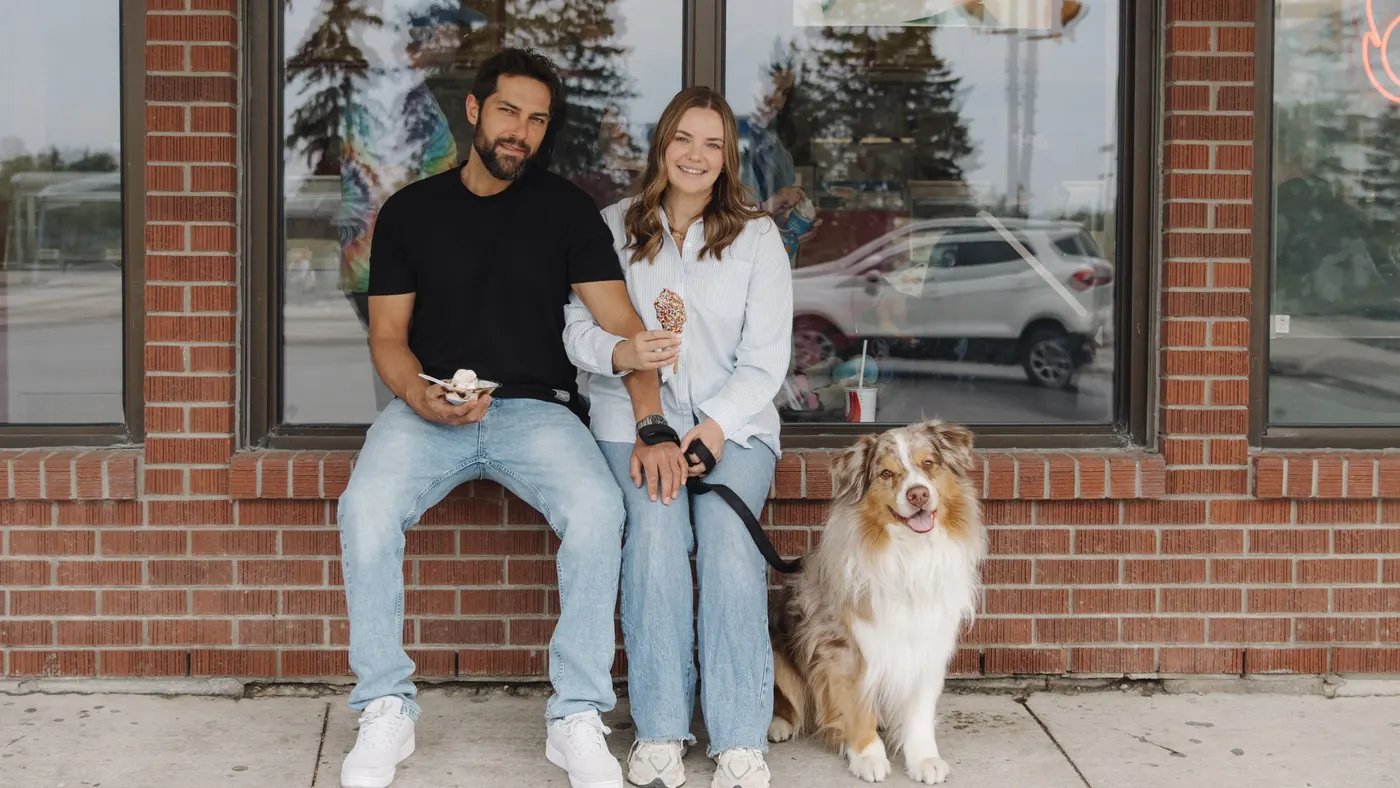
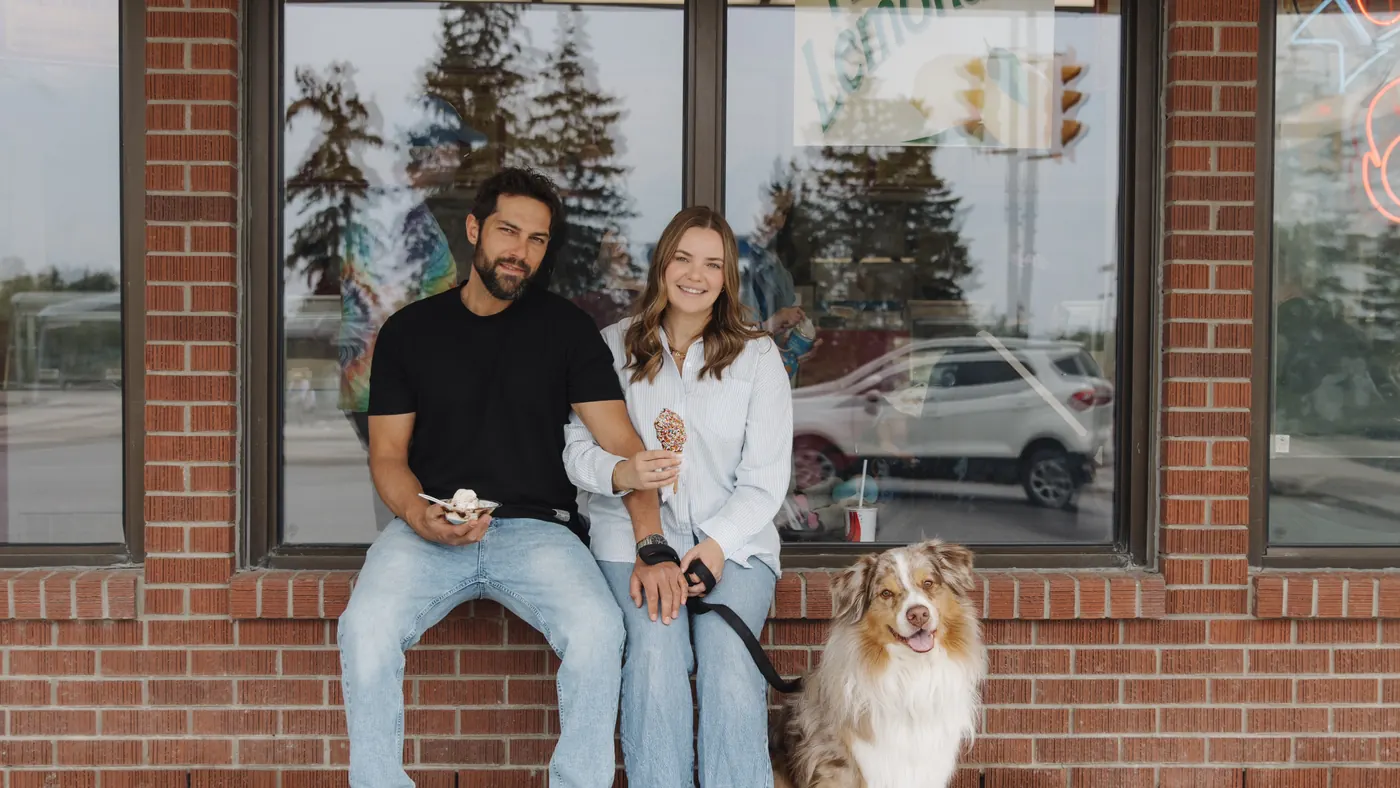
Westwood preview: smaller headshots, fixed crops, no edge lines, clearer hero text
Team and home headshots capped at sizes the photos hold sharply (300px /
440px); closing Paige + Mike photo uses a native-resolution landscape crop;
About and Services banners swapped to photos whose subject doesn't sit
behind the title; thin rules down the page edges removed; banner text is
brighter, larger and sits on a deeper veil.

diff --git a/the-vault/westwood/assets/css/site.css b/the-vault/westwood/assets/css/site.css
@@ -24,7 +24,6 @@
   --on-dark-soft:#D9CDBD;
   --rule:rgba(46,33,25,.18);
   --rule-dark:rgba(244,238,228,.2);
-  --edge:rgba(194,158,114,.42);   /* the thin rules down both page edges */
 
   --display:"Marcellus", "Trajan Pro", Georgia, serif;
   --body:"Jost", "Helvetica Neue", Arial, sans-serif;
@@ -74,14 +73,6 @@ button,a{-webkit-tap-highlight-color:rgba(194,158,114,.25)}
 #main{position:relative}
 #main:focus{outline:none}
 .visually-hidden{position:absolute;width:1px;height:1px;margin:-1px;padding:0;overflow:hidden;clip:rect(0 0 0 0);white-space:nowrap;border:0}
-
-/* thin rules down both edges of the content, over every band (desktop) */
-@media (min-width:1100px){
-  #main::before{
-    content:"";position:absolute;top:0;bottom:0;left:0;right:0;margin:0 auto;z-index:5;pointer-events:none;
-    width:min(calc(100% - 64px), var(--wrap));border-left:1px solid var(--edge);border-right:1px solid var(--edge);
-  }
-}
 
 /* ---------- shared text pieces ---------- */
 .eyebrow{margin:0 0 16px;font-size:.9rem;font-weight:500;letter-spacing:.22em;text-transform:uppercase;color:var(--tan-dk)}
@@ -241,16 +232,16 @@ button,a{-webkit-tap-highlight-color:rgba(194,158,114,.25)}
 .banner-page{min-height:clamp(380px, 52vh, 540px)}
 .banner-img{position:absolute;inset:0;z-index:-2}
 .banner-img img,.banner-img picture{display:block;width:100%;height:100%;object-fit:cover}
-.banner::before{content:"";position:absolute;inset:0;z-index:-1;background:linear-gradient(180deg,rgba(35,24,18,.62) 0%,rgba(35,24,18,.5) 45%,rgba(35,24,18,.78) 100%)}
+.banner::before{content:"";position:absolute;inset:0;z-index:-1;background:radial-gradient(ellipse 62% 58% at 50% 50%,rgba(30,20,14,.5) 0%,rgba(30,20,14,0) 100%),linear-gradient(180deg,rgba(35,24,18,.7) 0%,rgba(35,24,18,.6) 45%,rgba(35,24,18,.82) 100%)}
 .banner-page::before{background:linear-gradient(180deg,rgba(35,24,18,.7) 0%,rgba(35,24,18,.62) 50%,rgba(35,24,18,.8) 100%)}
 .banner-in{display:grid;place-items:center;text-align:center;padding-top:clamp(56px,8vw,110px);padding-bottom:clamp(64px,9vw,120px)}
 .banner-copy{max-width:900px;display:flex;flex-direction:column;align-items:center}
-.banner h1{color:var(--on-dark);margin-bottom:24px;text-shadow:0 2px 30px rgba(0,0,0,.25)}
-.banner .eyebrow{color:var(--tan-lt)}
-.banner .lede{color:var(--on-dark-soft);font-size:1.25rem;margin:0 auto;max-width:44em}
+.banner h1{color:#FFFBF5;margin-bottom:24px;text-shadow:0 2px 24px rgba(0,0,0,.45)}
+.banner .eyebrow{color:#E6CBA5;font-size:.98rem;text-shadow:0 1px 10px rgba(0,0,0,.5)}
+.banner .lede{color:#F6EEE3;font-size:1.32rem;font-weight:500;line-height:1.65;margin:0 auto;max-width:40em;text-shadow:0 1px 14px rgba(0,0,0,.55)}
 .banner .btn-row{justify-content:center}
 .banner h1.long{text-transform:none;letter-spacing:.01em;font-size:clamp(2.2rem,4.2vw,3.4rem);line-height:1.2}
-.status{display:inline-flex;align-items:center;gap:10px;flex-wrap:wrap;justify-content:center;margin:0 0 30px;padding:8px 18px;border:1px solid var(--rule-dark);background:rgba(35,24,18,.35);font-size:.95rem;color:var(--on-dark-soft)}
+.status{display:inline-flex;align-items:center;gap:10px;flex-wrap:wrap;justify-content:center;margin:0 0 30px;padding:8px 18px;border:1px solid var(--rule-dark);background:rgba(35,24,18,.6);font-size:1rem;color:#EFE6DA}
 .status b{color:var(--on-dark);font-weight:500;letter-spacing:.18em;text-transform:uppercase;font-size:.88rem}
 .status .dot{width:9px;height:9px;border-radius:50%;background:var(--tan);animation:pulse 2.4s infinite;flex:none}
 @keyframes pulse{0%{box-shadow:0 0 0 0 rgba(194,158,114,.6)}70%{box-shadow:0 0 0 11px rgba(194,158,114,0)}100%{box-shadow:0 0 0 0 rgba(194,158,114,0)}}
@@ -303,6 +294,7 @@ button,a{-webkit-tap-highlight-color:rgba(194,158,114,.25)}
 
 /* ---------- split rows: photo one side, copy the other ---------- */
 .split{display:grid;grid-template-columns:1fr 1fr;gap:clamp(40px,6vw,104px);align-items:center}
+.split-photo .photo{max-width:440px;margin:0 auto}
 .split-photo .photo img{aspect-ratio:4/5}
 .split-copy h2{margin-bottom:22px}
 .split-copy .lede{margin-bottom:1em}
@@ -403,9 +395,9 @@ figcaption{font-size:.88rem;font-weight:500;letter-spacing:.18em;text-transform:
 
 /* ---------- closing booking band: photo left, chocolate panel right ---------- */
 .cta{background:var(--choc);color:var(--on-dark);position:relative}
-.cta-grid{display:grid;grid-template-columns:1fr 1fr;min-height:560px}
+.cta-grid{display:grid;grid-template-columns:.85fr 1.15fr;min-height:540px}
 .cta-photo{position:relative;overflow:hidden;background:var(--beige)}
-.cta-photo img{position:absolute;inset:0;width:100%;height:100%;object-fit:cover;object-position:50% 30%}
+.cta-photo img{position:absolute;inset:0;width:100%;height:100%;object-fit:cover;object-position:50% 40%}
 .cta-copy{padding:clamp(56px,7vw,120px) clamp(32px,6vw,110px);display:flex;flex-direction:column;justify-content:center}
 .cta h2{color:var(--on-dark);margin-bottom:20px;max-width:16em}
 .cta .eyebrow{color:var(--tan)}
@@ -456,9 +448,9 @@ figcaption{font-size:.88rem;font-weight:500;letter-spacing:.18em;text-transform:
 .brand-card p{color:var(--soft);font-size:1.04rem}
 
 /* team */
-.person{display:grid;grid-template-columns:minmax(240px,400px) 1fr;gap:clamp(36px,5vw,88px);align-items:start}
+.person{display:grid;grid-template-columns:300px 1fr;gap:clamp(36px,5vw,88px);align-items:start}
 .person+.person{margin-top:clamp(64px,8vw,104px);padding-top:clamp(64px,8vw,104px);border-top:1px solid var(--rule)}
-.person-rev{grid-template-columns:1fr minmax(240px,400px)}
+.person-rev{grid-template-columns:1fr 300px}
 .person-rev .person-photo{order:2}
 .person-photo{position:sticky;top:calc(var(--header-h) + 28px)}
 .person-photo .photo img{aspect-ratio:4/5;object-position:50% 25%}
@@ -664,7 +656,7 @@ dialog.modal:not([open]){display:none}
 @media (max-width:1040px){
   .split,.svc-row,.visit-grid,.detail-grid,.post-card.featured{grid-template-columns:1fr}
   .split-rev .split-photo{order:-1}
-  .split-photo .photo img{aspect-ratio:4/3;object-position:50% 25%}
+  .split-photo .photo{max-width:380px}
   .svc-row:nth-child(even) .svc-row-img{order:0}
   .steps{grid-template-columns:repeat(2,minmax(0,1fr));row-gap:44px}
   .mosaic{grid-template-columns:1fr 1fr;grid-template-areas:"a b" "a c" "d d"}
@@ -672,10 +664,10 @@ dialog.modal:not([open]){display:none}
   .value:nth-child(3){border-left:0}
   .value:nth-child(n+3){border-top:1px solid var(--rule-dark)}
   .cta-grid{grid-template-columns:1fr}
-  .cta-photo{min-height:0;aspect-ratio:16/10}
+  .cta-photo{min-height:0;aspect-ratio:4/3;max-height:520px}
   .person,.person-rev{grid-template-columns:1fr}
   .person-rev .person-photo{order:0}
-  .person-photo{position:static;max-width:380px}
+  .person-photo{position:static;max-width:300px}
   .aside{position:static}
   .g3{grid-template-columns:repeat(2,minmax(0,1fr))}
   .actionbar{display:flex}
@@ -696,7 +688,7 @@ dialog.modal:not([open]){display:none}
   .banner-home{min-height:calc(100svh - 68px)}
   .banner-page{min-height:0}
   .banner-in{padding-top:52px;padding-bottom:72px}
-  .banner .lede{font-size:1.1rem}
+  .banner .lede{font-size:1.15rem}
   .scroll-cue{display:none}
   .trust ul{flex-direction:column;align-items:center;gap:4px}
   .trust li+li::before{display:none}

diff --git a/the-vault/westwood/about.html b/the-vault/westwood/about.html
@@ -91,7 +91,7 @@
 <main id="main" tabindex="-1">
 
   <section class="banner banner-page">
-    <div class="banner-img"><img src="assets/img/banner-sargent.webp" width="2000" height="1125" alt="Paige and Mike sitting outside together with a dog at their feet" srcset="assets/img/banner-sargent-600.webp 600w, assets/img/banner-sargent-1000.webp 1000w, assets/img/banner-sargent-1400.webp 1400w, assets/img/banner-sargent.webp 2000w" sizes="100vw" fetchpriority="high"></div>
+    <div class="banner-img"><img src="assets/img/banner-dog.webp" width="2000" height="1125" alt="The waiting room at Prairie Hearing Westwood, with a friendly dog sitting on the rug" srcset="assets/img/banner-dog-600.webp 600w, assets/img/banner-dog-1000.webp 1000w, assets/img/banner-dog-1400.webp 1400w, assets/img/banner-dog.webp 2000w" sizes="100vw" fetchpriority="high"></div>
     <div class="wrap banner-in">
       <div class="banner-copy">
           <p class="eyebrow">About the clinic</p>
@@ -110,7 +110,7 @@
       <div class="ruled"><p class="eyebrow">The people behind the care</p><h2 class="ruled-title"><span>Meet the team</span></h2></div>
 
       <article class="person">
-        <div class="person-photo"><div class="photo fade"><img src="assets/img/paige-headshot.webp" width="860" height="1075" alt="Paige McCombs, founder of Prairie Hearing Westwood" srcset="assets/img/paige-headshot-420.webp 420w, assets/img/paige-headshot-640.webp 640w, assets/img/paige-headshot.webp 860w" sizes="(max-width:1040px) 60vw, 400px" loading="lazy" decoding="async"></div></div>
+        <div class="person-photo"><div class="photo fade"><img src="assets/img/paige-headshot.webp" width="860" height="1075" alt="Paige McCombs, founder of Prairie Hearing Westwood" srcset="assets/img/paige-headshot-420.webp 420w, assets/img/paige-headshot-640.webp 640w, assets/img/paige-headshot.webp 860w" sizes="(max-width:760px) 80vw, 300px" loading="lazy" decoding="async"></div></div>
         <div>
           <h2>Paige McCombs</h2>
           <p class="role">Founder, BC-HIS (Board Certified Hearing Instrument Practitioner)</p>
@@ -123,7 +123,7 @@
       </article>
 
       <article class="person person-rev">
-        <div class="person-photo"><div class="photo fade"><img src="assets/img/mike-headshot.webp" width="860" height="1075" alt="Mike Kuchirka at Prairie Hearing Westwood" srcset="assets/img/mike-headshot-420.webp 420w, assets/img/mike-headshot-640.webp 640w, assets/img/mike-headshot.webp 860w" sizes="(max-width:1040px) 60vw, 400px" loading="lazy" decoding="async"></div></div>
+        <div class="person-photo"><div class="photo fade"><img src="assets/img/mike-headshot.webp" width="860" height="1075" alt="Mike Kuchirka at Prairie Hearing Westwood" srcset="assets/img/mike-headshot-420.webp 420w, assets/img/mike-headshot-640.webp 640w, assets/img/mike-headshot.webp 860w" sizes="(max-width:760px) 80vw, 300px" loading="lazy" decoding="async"></div></div>
         <div>
           <h2>Mike Kuchirka</h2>
           <p class="role">Clinic Operations</p>
@@ -162,7 +162,7 @@
 
   <section class="cta">
     <div class="cta-grid">
-      <div class="cta-photo"><img src="assets/img/paige-mike-together.webp" width="1000" height="1250" alt="Paige McCombs and Mike Kuchirka of Prairie Hearing Westwood" srcset="assets/img/paige-mike-together-480.webp 480w, assets/img/paige-mike-together-760.webp 760w, assets/img/paige-mike-together.webp 1000w" sizes="(max-width:900px) 100vw, 50vw" loading="lazy" decoding="async"></div>
+      <div class="cta-photo"><img src="assets/img/cta-together.webp" width="1168" height="876" alt="Paige McCombs and Mike Kuchirka of Prairie Hearing Westwood" srcset="assets/img/cta-together-600.webp 600w, assets/img/cta-together-900.webp 900w, assets/img/cta-together.webp 1168w" sizes="(max-width:1040px) 100vw, 44vw" loading="lazy" decoding="async"></div>
       <div class="cta-copy">
         <p class="eyebrow">Book a visit</p>
         <h2>Ready to hear what you have been missing?</h2>

diff --git a/the-vault/westwood/index.html b/the-vault/westwood/index.html
@@ -154,7 +154,7 @@
 
   <section class="band band-beige" id="about">
     <div class="wrap split">
-      <div class="split-photo"><div class="photo fade"><img src="assets/img/paige-headshot.webp" width="860" height="1075" alt="Paige McCombs, BC-HIS, founder of Prairie Hearing Westwood" srcset="assets/img/paige-headshot-420.webp 420w, assets/img/paige-headshot-640.webp 640w, assets/img/paige-headshot.webp 860w" sizes="(max-width:900px) 92vw, 560px" loading="lazy" decoding="async"></div></div>
+      <div class="split-photo"><div class="photo fade"><img src="assets/img/paige-headshot.webp" width="860" height="1075" alt="Paige McCombs, BC-HIS, founder of Prairie Hearing Westwood" srcset="assets/img/paige-headshot-420.webp 420w, assets/img/paige-headshot-640.webp 640w, assets/img/paige-headshot.webp 860w" sizes="(max-width:900px) 80vw, 440px" loading="lazy" decoding="async"></div></div>
       <div class="split-copy">
         <p class="eyebrow">Meet the clinic</p>
         <h2>The person behind your care</h2>
@@ -403,7 +403,7 @@
 
   <section class="cta">
     <div class="cta-grid">
-      <div class="cta-photo"><img src="assets/img/paige-mike-together.webp" width="1000" height="1250" alt="Paige McCombs and Mike Kuchirka of Prairie Hearing Westwood" srcset="assets/img/paige-mike-together-480.webp 480w, assets/img/paige-mike-together-760.webp 760w, assets/img/paige-mike-together.webp 1000w" sizes="(max-width:900px) 100vw, 50vw" loading="lazy" decoding="async"></div>
+      <div class="cta-photo"><img src="assets/img/cta-together.webp" width="1168" height="876" alt="Paige McCombs and Mike Kuchirka of Prairie Hearing Westwood" srcset="assets/img/cta-together-600.webp 600w, assets/img/cta-together-900.webp 900w, assets/img/cta-together.webp 1168w" sizes="(max-width:1040px) 100vw, 44vw" loading="lazy" decoding="async"></div>
       <div class="cta-copy">
         <p class="eyebrow">Book a visit</p>
         <h2>Ready to hear what you have been missing?</h2>

diff --git a/the-vault/westwood/services.html b/the-vault/westwood/services.html
@@ -90,7 +90,7 @@
 <main id="main" tabindex="-1">
 
   <section class="banner banner-page">
-    <div class="banner-img"><img src="assets/img/banner-dog.webp" width="2000" height="1125" alt="The waiting room at Prairie Hearing Westwood" srcset="assets/img/banner-dog-600.webp 600w, assets/img/banner-dog-1000.webp 1000w, assets/img/banner-dog-1400.webp 1400w, assets/img/banner-dog.webp 2000w" sizes="100vw" fetchpriority="high"></div>
+    <div class="banner-img"><img src="assets/img/banner-chairs.webp" width="2000" height="1125" alt="Armchairs and a plant in the waiting room at Prairie Hearing Westwood" srcset="assets/img/banner-chairs-600.webp 600w, assets/img/banner-chairs-1000.webp 1000w, assets/img/banner-chairs-1400.webp 1400w, assets/img/banner-chairs.webp 2000w" sizes="100vw" fetchpriority="high"></div>
     <div class="wrap banner-in">
       <div class="banner-copy">
           <p class="eyebrow">What we offer</p>
@@ -295,7 +295,7 @@
 
   <section class="cta">
     <div class="cta-grid">
-      <div class="cta-photo"><img src="assets/img/paige-mike-together.webp" width="1000" height="1250" alt="Paige McCombs and Mike Kuchirka of Prairie Hearing Westwood" srcset="assets/img/paige-mike-together-480.webp 480w, assets/img/paige-mike-together-760.webp 760w, assets/img/paige-mike-together.webp 1000w" sizes="(max-width:900px) 100vw, 50vw" loading="lazy" decoding="async"></div>
+      <div class="cta-photo"><img src="assets/img/cta-together.webp" width="1168" height="876" alt="Paige McCombs and Mike Kuchirka of Prairie Hearing Westwood" srcset="assets/img/cta-together-600.webp 600w, assets/img/cta-together-900.webp 900w, assets/img/cta-together.webp 1168w" sizes="(max-width:1040px) 100vw, 44vw" loading="lazy" decoding="async"></div>
       <div class="cta-copy">
         <p class="eyebrow">Book a visit</p>
         <h2>Ready to hear what you have been missing?</h2>

diff --git a/the-vault/westwood/blog/caring-for-your-hearing-aids.html b/the-vault/westwood/blog/caring-for-your-hearing-aids.html
@@ -155,7 +155,7 @@
 
   <section class="cta">
     <div class="cta-grid">
-      <div class="cta-photo"><img src="../assets/img/paige-mike-together.webp" width="1000" height="1250" alt="Paige McCombs and Mike Kuchirka of Prairie Hearing Westwood" srcset="../assets/img/paige-mike-together-480.webp 480w, ../assets/img/paige-mike-together-760.webp 760w, ../assets/img/paige-mike-together.webp 1000w" sizes="(max-width:900px) 100vw, 50vw" loading="lazy" decoding="async"></div>
+      <div class="cta-photo"><img src="../assets/img/cta-together.webp" width="1168" height="876" alt="Paige McCombs and Mike Kuchirka of Prairie Hearing Westwood" srcset="../assets/img/cta-together-600.webp 600w, ../assets/img/cta-together-900.webp 900w, ../assets/img/cta-together.webp 1168w" sizes="(max-width:1040px) 100vw, 44vw" loading="lazy" decoding="async"></div>
       <div class="cta-copy">
         <p class="eyebrow">Book a visit</p>
         <h2>Ready to hear what you have been missing?</h2>

diff --git a/the-vault/westwood/blog/custom-hearing-protection-explained.html b/the-vault/westwood/blog/custom-hearing-protection-explained.html
@@ -152,7 +152,7 @@
 
   <section class="cta">
     <div class="cta-grid">
-      <div class="cta-photo"><img src="../assets/img/paige-mike-together.webp" width="1000" height="1250" alt="Paige McCombs and Mike Kuchirka of Prairie Hearing Westwood" srcset="../assets/img/paige-mike-together-480.webp 480w, ../assets/img/paige-mike-together-760.webp 760w, ../assets/img/paige-mike-together.webp 1000w" sizes="(max-width:900px) 100vw, 50vw" loading="lazy" decoding="async"></div>
+      <div class="cta-photo"><img src="../assets/img/cta-together.webp" width="1168" height="876" alt="Paige McCombs and Mike Kuchirka of Prairie Hearing Westwood" srcset="../assets/img/cta-together-600.webp 600w, ../assets/img/cta-together-900.webp 900w, ../assets/img/cta-together.webp 1168w" sizes="(max-width:1040px) 100vw, 44vw" loading="lazy" decoding="async"></div>
       <div class="cta-copy">
         <p class="eyebrow">Book a visit</p>
         <h2>Ready to hear what you have been missing?</h2>

diff --git a/the-vault/westwood/blog/getting-used-to-new-hearing-aids.html b/the-vault/westwood/blog/getting-used-to-new-hearing-aids.html
@@ -151,7 +151,7 @@
 
   <section class="cta">
     <div class="cta-grid">
-      <div class="cta-photo"><img src="../assets/img/paige-mike-together.webp" width="1000" height="1250" alt="Paige McCombs and Mike Kuchirka of Prairie Hearing Westwood" srcset="../assets/img/paige-mike-together-480.webp 480w, ../assets/img/paige-mike-together-760.webp 760w, ../assets/img/paige-mike-together.webp 1000w" sizes="(max-width:900px) 100vw, 50vw" loading="lazy" decoding="async"></div>
+      <div class="cta-photo"><img src="../assets/img/cta-together.webp" width="1168" height="876" alt="Paige McCombs and Mike Kuchirka of Prairie Hearing Westwood" srcset="../assets/img/cta-together-600.webp 600w, ../assets/img/cta-together-900.webp 900w, ../assets/img/cta-together.webp 1168w" sizes="(max-width:1040px) 100vw, 44vw" loading="lazy" decoding="async"></div>
       <div class="cta-copy">
         <p class="eyebrow">Book a visit</p>
         <h2>Ready to hear what you have been missing?</h2>

diff --git a/the-vault/westwood/blog/signs-you-might-need-a-hearing-test.html b/the-vault/westwood/blog/signs-you-might-need-a-hearing-test.html
@@ -152,7 +152,7 @@
 
   <section class="cta">
     <div class="cta-grid">
-      <div class="cta-photo"><img src="../assets/img/paige-mike-together.webp" width="1000" height="1250" alt="Paige McCombs and Mike Kuchirka of Prairie Hearing Westwood" srcset="../assets/img/paige-mike-together-480.webp 480w, ../assets/img/paige-mike-together-760.webp 760w, ../assets/img/paige-mike-together.webp 1000w" sizes="(max-width:900px) 100vw, 50vw" loading="lazy" decoding="async"></div>
+      <div class="cta-photo"><img src="../assets/img/cta-together.webp" width="1168" height="876" alt="Paige McCombs and Mike Kuchirka of Prairie Hearing Westwood" srcset="../assets/img/cta-together-600.webp 600w, ../assets/img/cta-together-900.webp 900w, ../assets/img/cta-together.webp 1168w" sizes="(max-width:1040px) 100vw, 44vw" loading="lazy" decoding="async"></div>
       <div class="cta-copy">
         <p class="eyebrow">Book a visit</p>
         <h2>Ready to hear what you have been missing?</h2>

diff --git a/the-vault/westwood/services/custom-hearing-protection.html b/the-vault/westwood/services/custom-hearing-protection.html
@@ -143,7 +143,7 @@
 
   <section class="cta">
     <div class="cta-grid">
-      <div class="cta-photo"><img src="../assets/img/paige-mike-together.webp" width="1000" height="1250" alt="Paige McCombs and Mike Kuchirka of Prairie Hearing Westwood" srcset="../assets/img/paige-mike-together-480.webp 480w, ../assets/img/paige-mike-together-760.webp 760w, ../assets/img/paige-mike-together.webp 1000w" sizes="(max-width:900px) 100vw, 50vw" loading="lazy" decoding="async"></div>
+      <div class="cta-photo"><img src="../assets/img/cta-together.webp" width="1168" height="876" alt="Paige McCombs and Mike Kuchirka of Prairie Hearing Westwood" srcset="../assets/img/cta-together-600.webp 600w, ../assets/img/cta-together-900.webp 900w, ../assets/img/cta-together.webp 1168w" sizes="(max-width:1040px) 100vw, 44vw" loading="lazy" decoding="async"></div>
       <div class="cta-copy">
         <p class="eyebrow">Book a visit</p>
         <h2>Ready to hear what you have been missing?</h2>

diff --git a/the-vault/westwood/services/hearing-aid-fittings.html b/the-vault/westwood/services/hearing-aid-fittings.html
@@ -140,7 +140,7 @@
 
   <section class="cta">
     <div class="cta-grid">
-      <div class="cta-photo"><img src="../assets/img/paige-mike-together.webp" width="1000" height="1250" alt="Paige McCombs and Mike Kuchirka of Prairie Hearing Westwood" srcset="../assets/img/paige-mike-together-480.webp 480w, ../assets/img/paige-mike-together-760.webp 760w, ../assets/img/paige-mike-together.webp 1000w" sizes="(max-width:900px) 100vw, 50vw" loading="lazy" decoding="async"></div>
+      <div class="cta-photo"><img src="../assets/img/cta-together.webp" width="1168" height="876" alt="Paige McCombs and Mike Kuchirka of Prairie Hearing Westwood" srcset="../assets/img/cta-together-600.webp 600w, ../assets/img/cta-together-900.webp 900w, ../assets/img/cta-together.webp 1168w" sizes="(max-width:1040px) 100vw, 44vw" loading="lazy" decoding="async"></div>
       <div class="cta-copy">
         <p class="eyebrow">Book a visit</p>
         <h2>Ready to hear what you have been missing?</h2>

diff --git a/the-vault/westwood/services/hearing-aid-repairs.html b/the-vault/westwood/services/hearing-aid-repairs.html
@@ -138,7 +138,7 @@
 
   <section class="cta">
     <div class="cta-grid">
-      <div class="cta-photo"><img src="../assets/img/paige-mike-together.webp" width="1000" height="1250" alt="Paige McCombs and Mike Kuchirka of Prairie Hearing Westwood" srcset="../assets/img/paige-mike-together-480.webp 480w, ../assets/img/paige-mike-together-760.webp 760w, ../assets/img/paige-mike-together.webp 1000w" sizes="(max-width:900px) 100vw, 50vw" loading="lazy" decoding="async"></div>
+      <div class="cta-photo"><img src="../assets/img/cta-together.webp" width="1168" height="876" alt="Paige McCombs and Mike Kuchirka of Prairie Hearing Westwood" srcset="../assets/img/cta-together-600.webp 600w, ../assets/img/cta-together-900.webp 900w, ../assets/img/cta-together.webp 1168w" sizes="(max-width:1040px) 100vw, 44vw" loading="lazy" decoding="async"></div>
       <div class="cta-copy">
         <p class="eyebrow">Book a visit</p>
         <h2>Ready to hear what you have been missing?</h2>

diff --git a/the-vault/westwood/services/hearing-tests.html b/the-vault/westwood/services/hearing-tests.html
@@ -140,7 +140,7 @@
 
   <section class="cta">
     <div class="cta-grid">
-      <div class="cta-photo"><img src="../assets/img/paige-mike-together.webp" width="1000" height="1250" alt="Paige McCombs and Mike Kuchirka of Prairie Hearing Westwood" srcset="../assets/img/paige-mike-together-480.webp 480w, ../assets/img/paige-mike-together-760.webp 760w, ../assets/img/paige-mike-together.webp 1000w" sizes="(max-width:900px) 100vw, 50vw" loading="lazy" decoding="async"></div>
+      <div class="cta-photo"><img src="../assets/img/cta-together.webp" width="1168" height="876" alt="Paige McCombs and Mike Kuchirka of Prairie Hearing Westwood" srcset="../assets/img/cta-together-600.webp 600w, ../assets/img/cta-together-900.webp 900w, ../assets/img/cta-together.webp 1168w" sizes="(max-width:1040px) 100vw, 44vw" loading="lazy" decoding="async"></div>
       <div class="cta-copy">
         <p class="eyebrow">Book a visit</p>
         <h2>Ready to hear what you have been missing?</h2>
